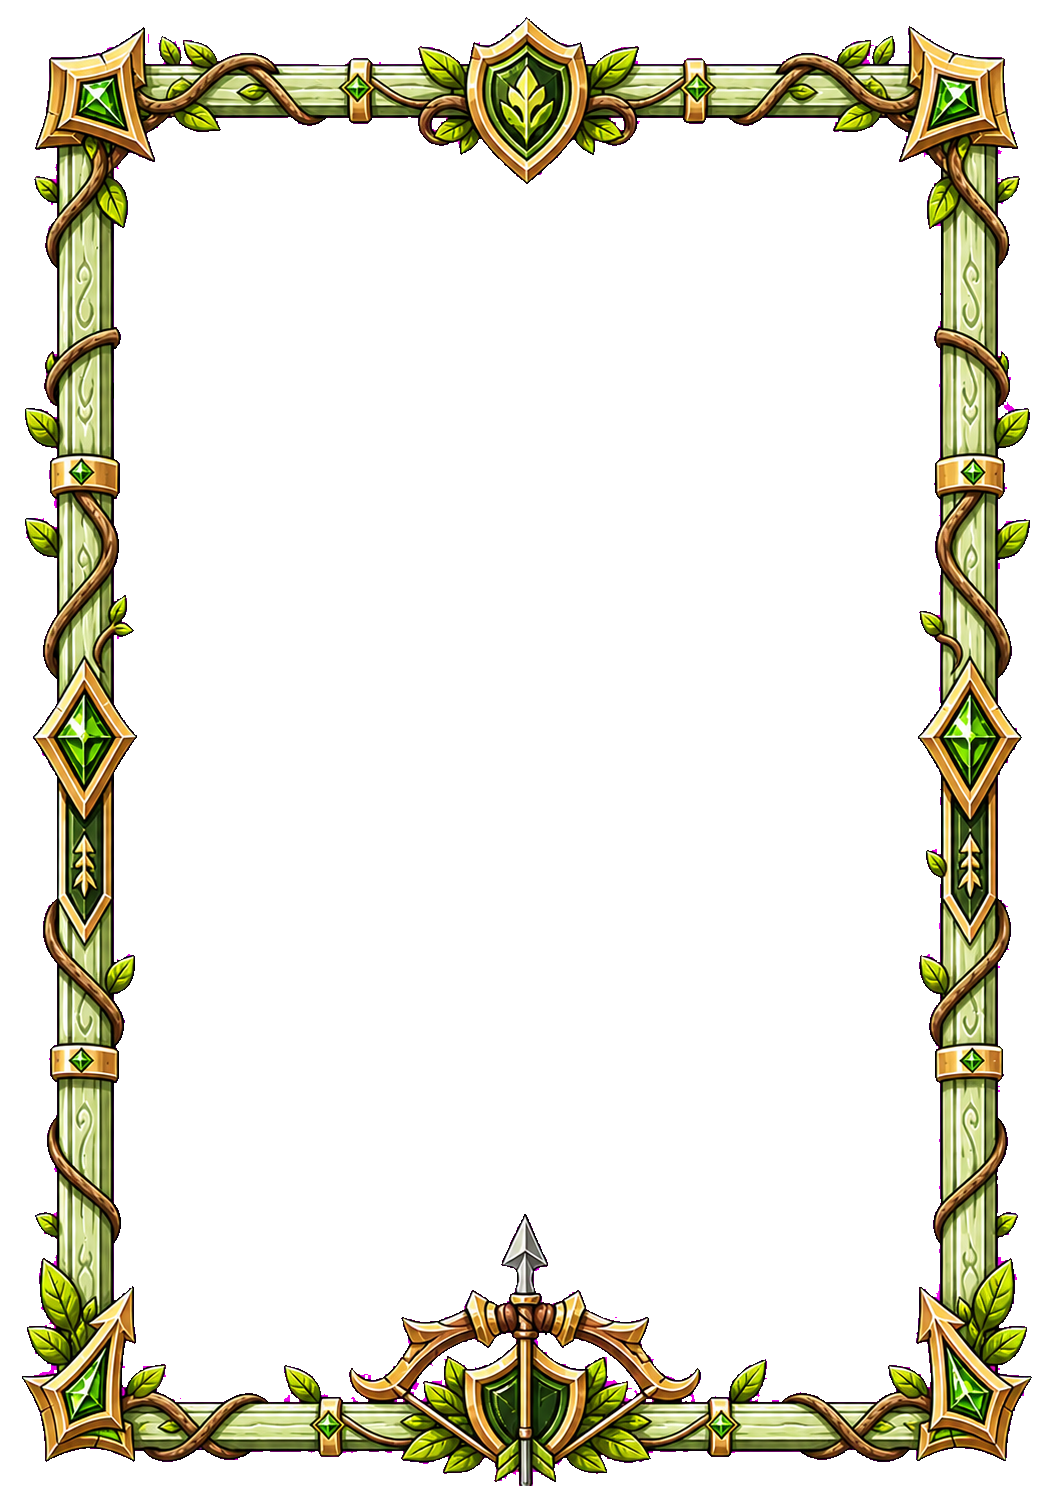
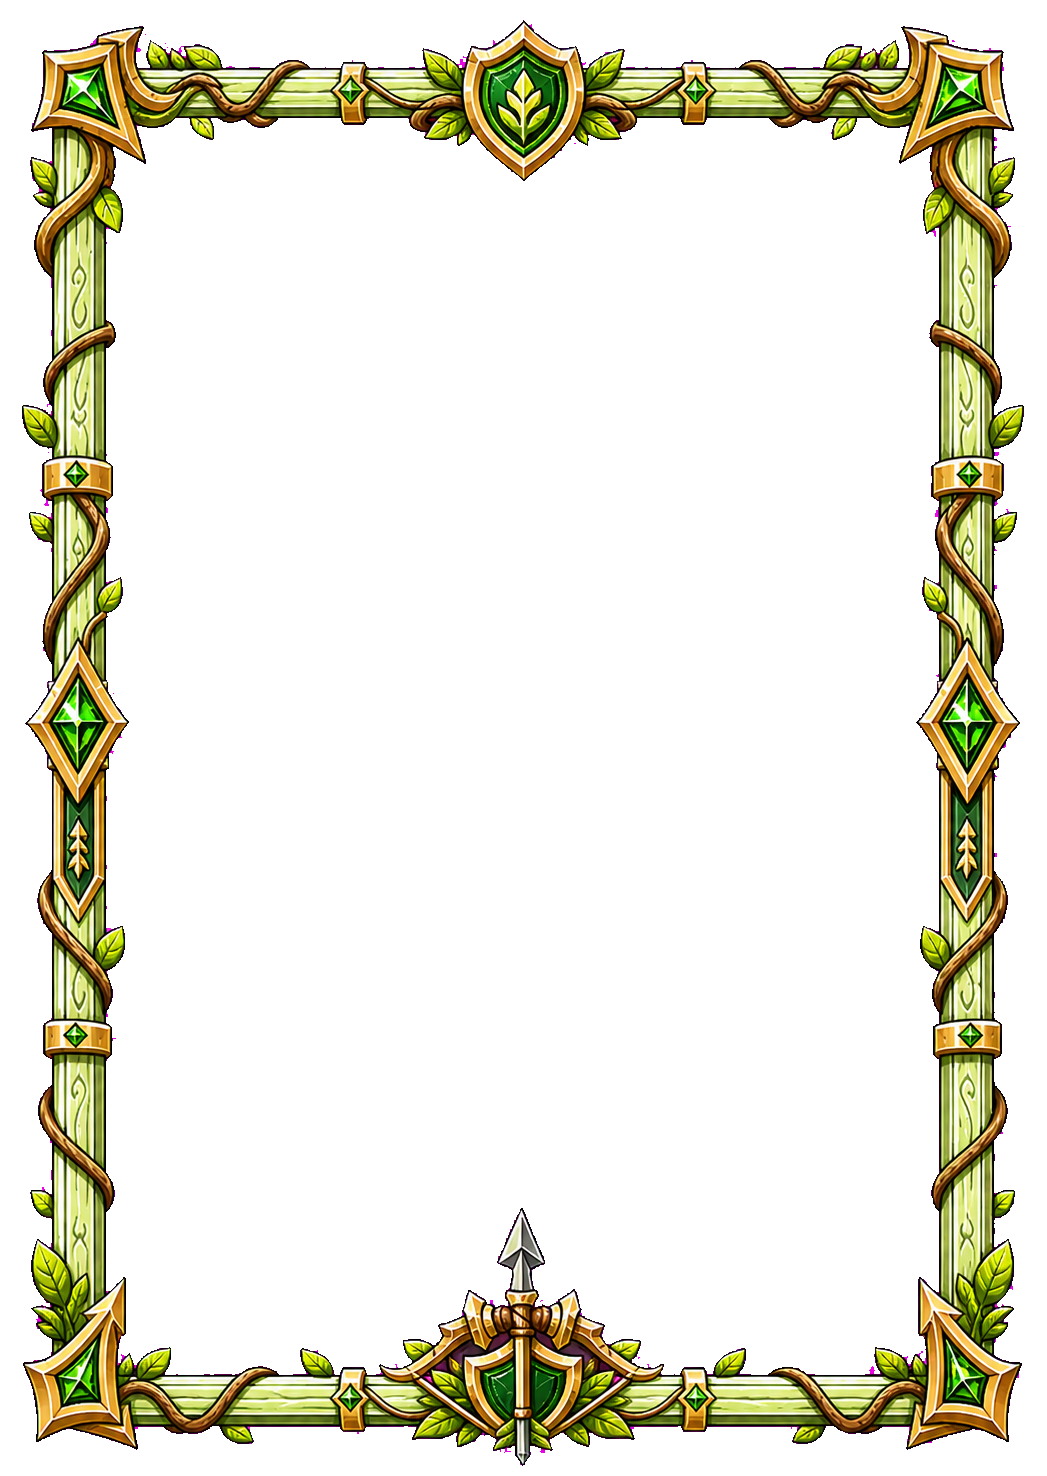
a

Changed region(s): [[0.0, 0.0, 0.978, 1.0]]

diff --git a/css/game.css b/css/game.css
@@ -95,17 +95,17 @@ body.pvp-waiting-table #game-background::after { opacity: 0.45; animation-durati
 @keyframes hudFloatCentered { 0%, 100% { transform: translateX(-50%) translateY(0); } 50% { transform: translateX(-50%) translateY(-6px); } }
 .xp-mini { width: 38px; height: 53px; margin: 0 2px; position: relative; border: 1px solid #111; border-radius: 3px; box-shadow: 0 4px 8px rgba(0,0,0,0.6); cursor: default; transition: transform 0.2s; background-size: cover; background-position: center; }
 body.player-card-border-royal { --player-card-border-url: url('../assets/img/borda_metalica_card.png'); }
-body.player-card-border-elven { --player-card-border-url: url('../assets/img/borda_bosque_elfico_card.png?v=2026.06.23.16'); }
-body.player-card-border-mage { --player-card-border-url: url('../assets/img/borda_chama_arcana_card.png?v=2026.06.23.16'); }
-body.player-card-border-rogue { --player-card-border-url: url('../assets/img/borda_mao_dourada_card.png?v=2026.06.23.16'); }
-body.player-card-border-oracle { --player-card-border-url: url('../assets/img/borda_visao_astral_card.png?v=2026.06.23.16'); }
+body.player-card-border-elven { --player-card-border-url: url('../assets/img/borda_bosque_elfico_card.png?v=2026.06.23.18'); }
+body.player-card-border-mage { --player-card-border-url: url('../assets/img/borda_chama_arcana_card.png?v=2026.06.23.18'); }
+body.player-card-border-rogue { --player-card-border-url: url('../assets/img/borda_mao_dourada_card.png?v=2026.06.23.18'); }
+body.player-card-border-oracle { --player-card-border-url: url('../assets/img/borda_visao_astral_card.png?v=2026.06.23.18'); }
 .xp-mini.card-skin-metallic-border {
     border-color: transparent !important;
 }
 .xp-mini.card-skin-metallic-border::before {
     content: "";
     position: absolute;
-    inset: -5.5% -7% -3.8% -7%;
+    inset: -7% -7% -7% -7%;
     z-index: 4;
     pointer-events: none;
     border-radius: 8%;
@@ -141,7 +141,7 @@ body.player-card-border-oracle { --player-card-border-url: url('../assets/img/bo
 .flying-card.card-skin-metallic-border::before {
     content: "";
     position: absolute;
-    inset: -5.5% -7% -3.8% -7%;
+    inset: -7% -7% -7% -7%;
     z-index: 24;
     pointer-events: none;
     border-radius: 8%;

diff --git a/js/effects.js b/js/effects.js
@@ -2189,10 +2189,10 @@ safeLobbyEnhancement('ajustes visuais estaticos', () => {
 
         const lobbyCardBorderItems = [
             { id: 'metallic_border', name: 'BORDA - GUARDA REAL', asset: 'assets/img/borda_metalica_card.png' },
-            { id: 'mage_fire_border', name: 'BORDA - CHAMA ARCANA', asset: 'assets/img/borda_chama_arcana_card.png?v=2026.06.23.16' },
-            { id: 'elven_forest_border', name: 'BORDA - SENTINELA VERDE', asset: 'assets/img/borda_bosque_elfico_card.png?v=2026.06.23.16' },
-            { id: 'rogue_gold_border', name: 'BORDA - M\u00c3O DOURADA', asset: 'assets/img/borda_mao_dourada_card.png?v=2026.06.23.16' },
-            { id: 'oracle_border', name: 'BORDA - VIS\u00c3O ASTRAL', asset: 'assets/img/borda_visao_astral_card.png?v=2026.06.23.16' }
+            { id: 'mage_fire_border', name: 'BORDA - CHAMA ARCANA', asset: 'assets/img/borda_chama_arcana_card.png?v=2026.06.23.18' },
+            { id: 'elven_forest_border', name: 'BORDA - SENTINELA VERDE', asset: 'assets/img/borda_bosque_elfico_card.png?v=2026.06.23.18' },
+            { id: 'rogue_gold_border', name: 'BORDA - M\u00c3O DOURADA', asset: 'assets/img/borda_mao_dourada_card.png?v=2026.06.23.18' },
+            { id: 'oracle_border', name: 'BORDA - VIS\u00c3O ASTRAL', asset: 'assets/img/borda_visao_astral_card.png?v=2026.06.23.18' }
         ];
 
         const renderBorderPreview = (item) => `<div class="metallic-border-art" style="background-image: url('${item.asset}')" aria-label="Arte de ${item.name}"></div>`;

diff --git a/index.html b/index.html
@@ -11,7 +11,7 @@
     
     <link rel="stylesheet" href="css/style.css?v=2026.06.22.4">
     <link rel="stylesheet" href="css/lobby.css?v=2026.06.20.1">
-    <link rel="stylesheet" href="css/game.css?v=2026.06.23.16">
+    <link rel="stylesheet" href="css/game.css?v=2026.06.23.18">
     <link rel="stylesheet" href="css/effects.css?v=2026.06.22.4">
 
     <link rel="icon" type="image/webp" href="assets/img/logo_buppo.webp">
@@ -25,7 +25,7 @@
     <meta name="apple-mobile-web-app-status-bar-style" content="black-translucent">
     <meta name="apple-mobile-web-app-title" content="BUPPO">
     <script>
-        window.BUPPO_BUILD_VERSION = '2026.06.23.16';
+        window.BUPPO_BUILD_VERSION = '2026.06.23.18';
     </script>
     <script>
         (function () {
@@ -273,8 +273,8 @@
     <div id="tooltip-box"><h3 id="tt-title"></h3><div id="tt-content"></div></div>
     <div id="modal-overlay" class="modal-overlay" onclick="cancelModal()"><div class="modal-box" onclick="event.stopPropagation()"><h2 id="modal-title"></h2><p id="modal-desc"></p><div class="modal-btns" id="modal-btns"></div></div></div>
 
-    <script src="js/effects.js?v=2026.06.23.16"></script> 
-    <script type="module" src="js/main.js?v=2026.06.23.16"></script>
+    <script src="js/effects.js?v=2026.06.23.18"></script> 
+    <script type="module" src="js/main.js?v=2026.06.23.18"></script>
 </body>
 </html>
 
